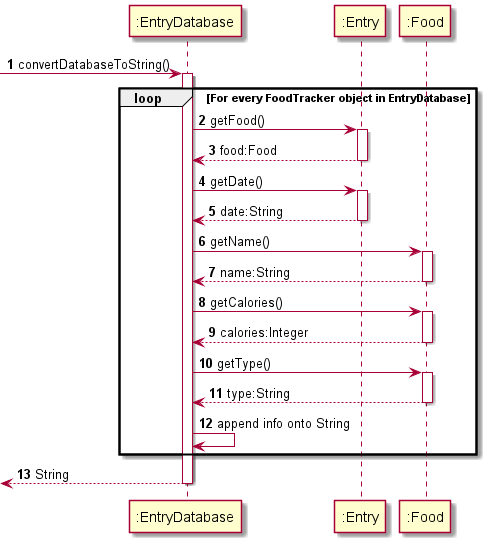
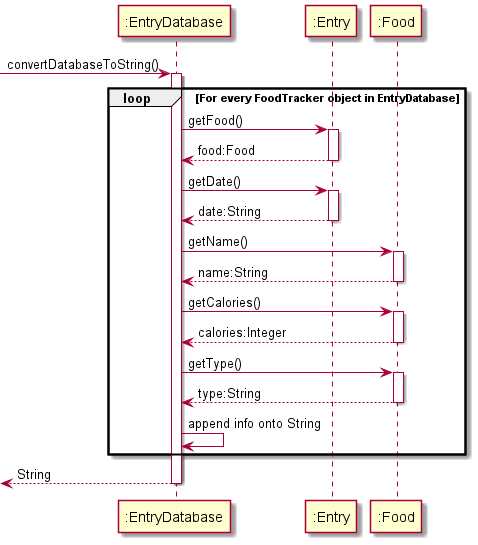
Update DG to adhere to UML Diagram standards

diff --git a/docs/DeveloperGuide.md b/docs/DeveloperGuide.md
@@ -7,7 +7,7 @@
 3. [User Story](##user-story)
 4. [Application Architecture](##Architecture)
    - [Overall Architecture](###Overall Architecture)
-   - [Food Tracker](###Food Tracker)
+   - [Food Tracker Entry](###Food Tracker Entry)
    - [Food Tracker Database](###Food Tracker Database)
    - [Food Database](###Food Database)
    - [User](###User)
@@ -87,47 +87,51 @@ The primary components of the app are listed below:
 4. The `execute` method returns a `String` object that contains the outcome message of the command that was executed, which is displayed to the user by the `Ui` component.
 ---
 
-### Food Tracker
+### Food Tracker Entry
+
+The Food Tracker Entry is represented by the class `Entry`.
 
 ![tracker class diagram](diagrams-DG/tracker%20class%20diagram.png)
 
 ---
 
-### Food Tracker Database
+### Food Tracker
+
+The Food Tracker is represented by the class `EntryDatabase`.
 
 ![Food Tracker Class Diagram](diagrams-DG/FoodTrackerDatabase_Class.png)
 
-The `FoodTrackerDatabase` class consists of an ArrayList of FoodTrackers. It handles all functionalities 
-that uses/amends the Food Tracker Database. 
+The `EntryDatabase` class consists of an ArrayList of Entry. It handles all functionalities 
+that uses/amends the Food Tracker. 
 
-The `FoodTrackerDatabase` component consists of:
-- `addEntry()` Adds a FoodTracker object to the database.
+The `EntryDatabase` component consists of:
+- `addEntry()` Adds an Entry object to the database.
 - `sortDatabase()` Sorts the database by date.
-- `deleteEntry(int)` Removes a specified FoodTracker object from the database.
+- `deleteEntry(int)` Removes a specified Entry object from the database.
 - `getTotalDailyCalorie()` Returns the total calorie intake for the day.
-- `convertDatabaseToString()` Returns a String representation of all FoodTracker objects in the database.
-  
+- `convertDatabaseToString()` Returns a String representation of all Entry objects in the database.
+
   ![convertDatabaseToString Sequence Diagram](diagrams-DG/EntryDatabase_convertDatabaseToString_Seq.png)
 
 - `preloadDatabase(BufferedReader)` Preloads the database using data from the text file.
 
   ![preloadDatabase Sequence Diagram](diagrams-DG/EntryDatabase_preLoadDatabase_Seq.png)
 
-- `getEntries()` Returns an ArrayList of all FoodTracker objects within the database.
-- `getEntryAtIndex(int)` Returns the FoodTracker object at the specified index.
+- `getEntries()` Returns an ArrayList of all Entry objects within the database.
+- `getEntryAtIndex(int)` Returns the Entry object at the specified index.
 - `listEntries()` Returns a formatted String of all Food objects to be printed.
-- `findEntries(String)` Returns an ArrayList containing matching FoodTracker objects based on a keyword.
-- `getPastDaysEntryDatabase(int)` Returns a subset of the original database consisting of FoodTracker objects added in the current day
+- `findEntries(String)` Returns an ArrayList containing matching Entry objects based on a keyword.
+- `getPastDaysEntryDatabase(int)` Returns a subset of the original database consisting of Entry objects added in the current day
 
   ![getPastDaysEntryDatabase Sequence Diagram](diagrams-DG/EntryDatabase_getPastDaysEntryDatabase_Seq.png)
 
-- `getPastMonthsEntryDatabase()` Returns a subset of the original database consisting of FoodTracker objects added in the current month
+- `getPastMonthsEntryDatabase()` Returns a subset of the original database consisting of Entry objects added in the current month
 
   ![getPastMonthsEntryDatabase Sequence Diagram](diagrams-DG/EntryDatabase_getPastMonthsEntryDatabase_Seq.png) 
 
-- `editEntryAtIndex(int, Food)` Edits the FoodTracker object at the specified index to the new specified Food object
+- `editEntryAtIndex(int, Food)` Edits the Entry object at the specified index to the new specified Food object
 
-The diagram below showcases the relationships between FoodTrackerDatabase object and various components.
+The diagram below showcases the relationships between EntryDatabase object and various components.
 
 ![Food Tracker Class Architecture](diagrams-DG/FoodTrackerDatabase_Classes.png)
 
@@ -324,7 +328,7 @@ Additionally, it implements the following operations:
 - `EntryDatabase#addEntry(Entry)` -- Adds a new entry into the entry database
 - `FoodDatabase#addFood` -- Adds a new food into the food database
 
-![AddFoodEntrySeqDiagram](diagrams-DG/AddFoodEntry.png "AddFoodEntry Sequence Diagram")
+![AddFoodEntrySeqDiagram](diagrams-DG/Command_AddFoodEntryCommand_Seq.png "AddFoodEntry Sequence Diagram")
 
 #### Edit Food Entry Feature
 
@@ -334,7 +338,7 @@ Additionally, it implements the following operations:
 - `EntryDatabase#editEntryAtIndex(int, Entry)` -- Edits the entry at the specified index of the entry database
 - `FoodDatabase#addFood` -- Adds a new food into the food database
   
-![EditFoodEntrySeqDiagram](diagrams-DG/EditFoodEntry.png "EditFoodEntry Sequence Diagram")
+![EditFoodEntrySeqDiagram](diagrams-DG/Command_EditFoodEntryCommand_Seq.png "EditFoodEntry Sequence Diagram")
 
 #### List Food Entry Feature
 

diff --git a/docs/UserGuide.md b/docs/UserGuide.md
@@ -76,7 +76,7 @@ Please enter your gender (m/f):
 ### Food Tracker
 
 #### Adding food tracker entry: `add`
-Adds a food entry to the food tracker and prompts the user to fill in any additional information needed if an exact match to the user inputted food name was not found in the food database. 
+Adds a food tracker entry to the food tracker and prompts the user to fill in any additional information needed if an exact match to the user inputted food name was not found in the food database. 
 
 Format: `add [/MEALTYPE] FOOD_NAME`
 
@@ -144,7 +144,7 @@ Sample output:
 
 
 #### Editing existing food tracker entry: `edit`
-Edits an existing food entry's food information. FitNUS will search for FOOD_NAME in the food database 
+Edits an existing food tracker entry's food information. FitNUS will search for FOOD_NAME in the food database 
 and update the specified entry's food details accordingly.
 
 Format: `edit INDEX_OF_ENTRY FOOD_NAME`
@@ -167,7 +167,7 @@ Sample output:
 <p>&nbsp;</p>
 
 #### Deleting food tracker entry: `remove`
-Deletes a food entry from the food tracker.
+Deletes a food tracker entry from the food tracker.
 
 Format: `remove /entry INDEX_OF_FOOD`
 
